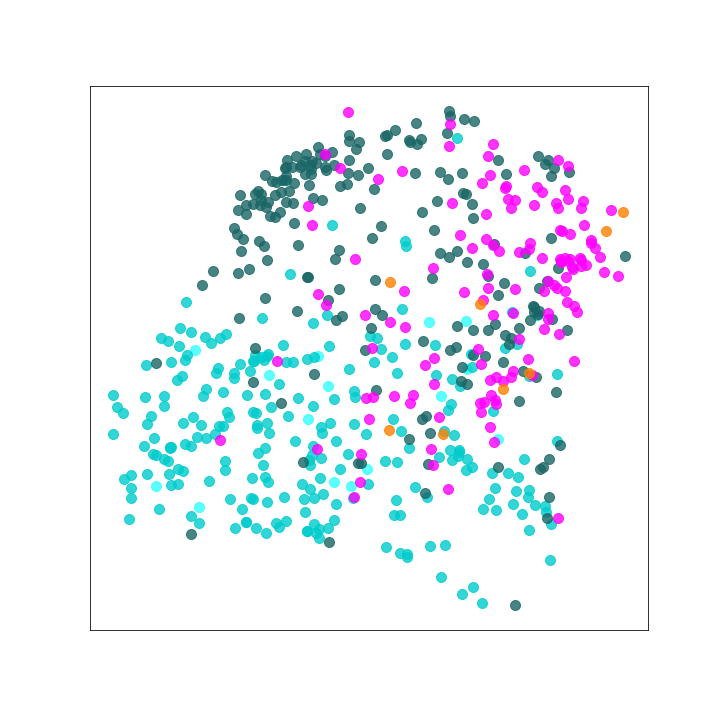
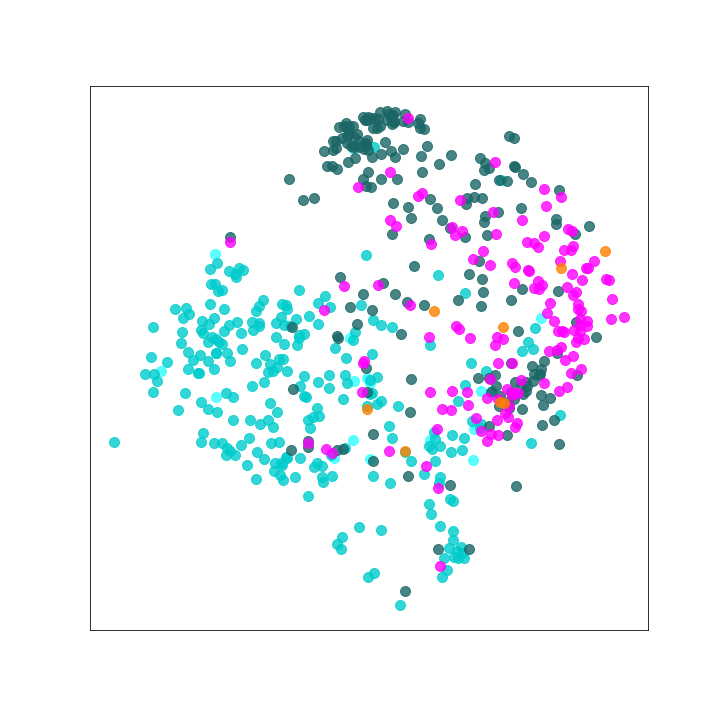
Added umap option to choose number of models per cell_id
Modified umaps such that sample size for experiments and simulations are roughly equal.

Changed region(s): [[0.1528, 0.1222, 0.8861, 0.8556], [0.7028, 0.825, 0.7333, 0.8556], [0.4889, 0.7944, 0.5194, 0.825]]

diff --git a/figure_UMAP_ephys_features_Philip/umap_feature_Philip.py b/figure_UMAP_ephys_features_Philip/umap_feature_Philip.py
@@ -34,6 +34,25 @@ ephys_exp = pd.read_csv(os.path.join(main_dir,'ephys_exp_features.csv'), index_c
 inh_ephys_sim = pd.read_csv(os.path.join(main_dir,'inh_ephys_sim_features.csv'), index_col=False)
 exc_ephys_sim = pd.read_csv(os.path.join(main_dir,'exc_ephys_sim_features.csv'), index_col=False)
 
+#%% Get Top 10 models per cell
+
+def get_topmodels(ephys_sim,n=10):
+    
+    output = pd.DataFrame()
+    
+    cell_ids = ephys_sim['cell_id'].unique()   
+    for cell_id in cell_ids:
+        temp = ephys_sim[ephys_sim['cell_id'] == cell_id]
+        temp = temp.sort_values(by='hof',ascending=True) #sort dataframe from lowest hof number to highest
+        output = pd.concat([output,temp.iloc[:n,:]]) #keep n top hof models per cell_id
+        
+    output = output.reset_index(drop=True)
+    
+    return output
+
+inh_ephys_sim = get_topmodels(inh_ephys_sim,n=10)
+exc_ephys_sim = get_topmodels(exc_ephys_sim,n=10)
+
 #%% Preprocessing
 
 #Drop non-firing cells
@@ -90,7 +109,7 @@ exc_ephys_sim_features = get_zscore(exc_ephys_sim_features)
 
 #%% Generate Mapping
 
-n_neighbors = 200 
+n_neighbors = 20 
 min_dist = 0.2
 random_state = 42
 
@@ -157,5 +176,3 @@ plot_umap(exc_sim_embedding,exc_ephys_sim, title='', s = 100, save_name = 'umap_
 #Plot Excitatory cells, Experiment
 plot_umap(exc_exp_embedding,exc_ephys_exp, title='', s = 100, save_name = 'umap_feature_exc_exp', ax = None, fontsize = 24,
               alpha_val = 0.8, colors = exc_colors, classes = exc_celltype_list)
-
-
